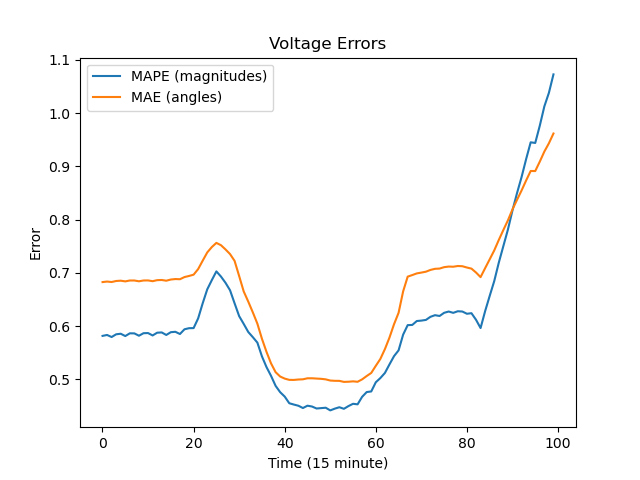
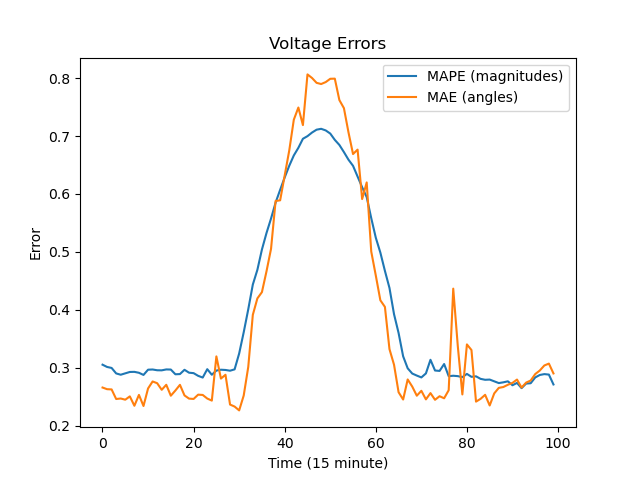
Create new plots

diff --git a/LocalFeeder/sender_cosim.py b/LocalFeeder/sender_cosim.py
@@ -142,7 +142,7 @@ def go_cosim(sim, config: FeederConfig):
 
     granted_time = -1
     current_index = config.start_time_index
-    for request_time in range(0, 2):
+    for request_time in range(0, 100):
         while granted_time < request_time:
             granted_time = h.helicsFederateRequestTime(vfed, request_time)
         current_index+=1

diff --git a/AWSFeeder/sender_cosim.py b/AWSFeeder/sender_cosim.py
@@ -139,7 +139,7 @@ def go_cosim(sim, config: FeederConfig):
     current_index = 0
     current_hour = 0
     current_second = 0
-    for request_time in range(0, 2):
+    for request_time in range(0, 100):
         while granted_time < request_time:
             granted_time = h.helicsFederateRequestTime(vfed, request_time)
         current_index+=1
